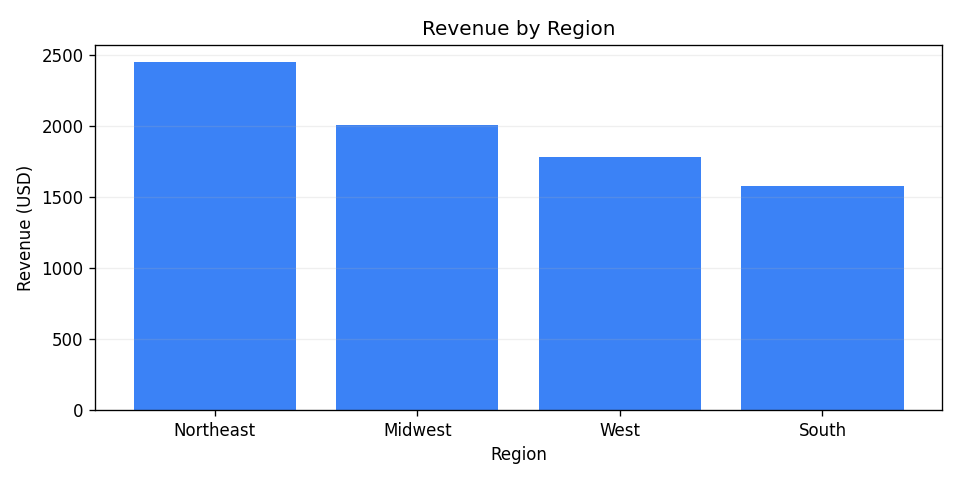
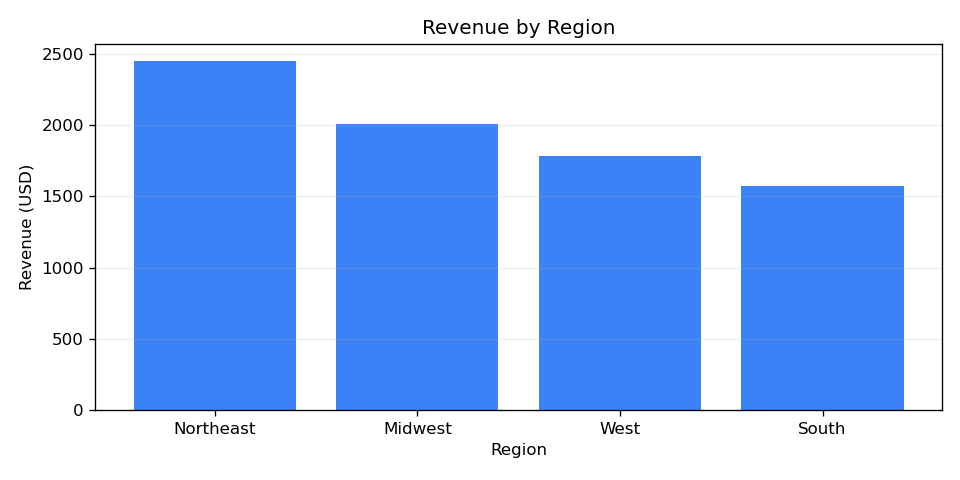
Added personal analysis to show the total units sold by category. Updated plot_helpers.py and analysis.py to do so. Updated the README with my personal analysis.

diff --git a/scripts/analysis.py b/scripts/analysis.py
@@ -32,7 +32,7 @@ def main() -> None:
 
     from clean_data_v1 import build_summary_table, load_inputs
     from file_stuff import ensure_folder, save_csv
-    from plot_helpers import make_revenue_plot
+    from plot_helpers import make_revenue_plot, make_category_plot
 
     sales_path = project_root / "datafiles" / "raw"/ "sales_jan.csv"
     customers_path = project_root / "datafiles" / "raw" / "customer_lookup.csv"
@@ -43,14 +43,17 @@ def main() -> None:
     output_dir = ensure_folder(project_root / "outputs")
     summary_path = output_dir / "summary_by_region.csv"
     plot_path = output_dir / "revenue_by_region.png"
+    category_plot_path = output_dir / "units_by_category.png"
 
     save_csv(summary, summary_path)
     make_revenue_plot(summary, plot_path)
+    make_category_plot(summary,category_plot_path)
 
     print("Analysis complete.")
     print(f"Rows in summary: {len(summary)}")
     print(f"Summary written to: {summary_path}")
     print(f"Plot written to: {plot_path}")
+    print(f"Category plot written to: {category_plot_path}")
 
 
 if __name__ == "__main__":

diff --git a/scripts/plot_helpers.py b/scripts/plot_helpers.py
@@ -20,3 +20,20 @@ def make_revenue_plot(summary_df: pd.DataFrame, out_path: Path) -> None:
     fig.tight_layout()
     fig.savefig(out_path, dpi=120)
     plt.close(fig)
+
+def make_category_plot(summary_df: pd.DataFrame, out_path: Path) -> None:
+    units_by_category=(
+        summary_df.groupby("category", as_index=False)["total_units"].sum().sort_values("total_units", ascending=False)
+    )
+
+    fig, ax = plt.subplots(figsize=(8, 4))
+    ax.bar(units_by_category["category"], units_by_category["total_units"], color="#5cea6f")
+    ax.set_title("Units Sold by Category")
+    ax.set_xlabel("Category")
+    ax.set_ylabel("Total Units")
+    ax.grid(axis="y", alpha=0.2)
+    fig.tight_layout()
+    fig.savefig(out_path, dpi=120)
+    plt.close(fig)
+
+

diff --git a/README.md b/README.md
@@ -46,9 +46,9 @@
 
   Expected output in the outputs folder: 
   - summary_by_region.csv: 12 row summary tables (region category,total_units,total_revenue,orders,avg_revenue_per_order)
-  - revenue_by_region.png: bar chart of total revenue by region 
+  - revenue_by_region.png: bar chart of total revenue by region  
 
-  To verify open quick_run_demo.ipynb and output_examples.ipynb and run all the cells with no errors 
+  To verify open quick_run_demo.ipynb and output_examples.ipynb and run all the cells with no errors. 
 
 
 5. **Troubleshooting**  
@@ -56,3 +56,8 @@
    - If there is an error when running the .ipynb files make sure in the analysis.py that all the paths are correct 
    - Another error that may happen when running the .ipynb files is that its not outputing in the correct place so make sure that is going into outputs. 
    - if you move any of the files around or change names make sure you update the paths 
+
+6. **Personal Analysis**
+   I added a second plot that shows total units sold broken down by product category (hardware, software, office). This uses the same summary data that's already being generated, just visualized differently. The new chart gets saved to outputs folder as units_by_category.png when you run analysis.py.
+
+   Before this change the only output plot was revenue by region. Now you can also see which product categories are moving the most units, which is a different visual on the same data (a category could have low revenue but high unit volume or vice versa), so it adds something the original plot didn't show.
